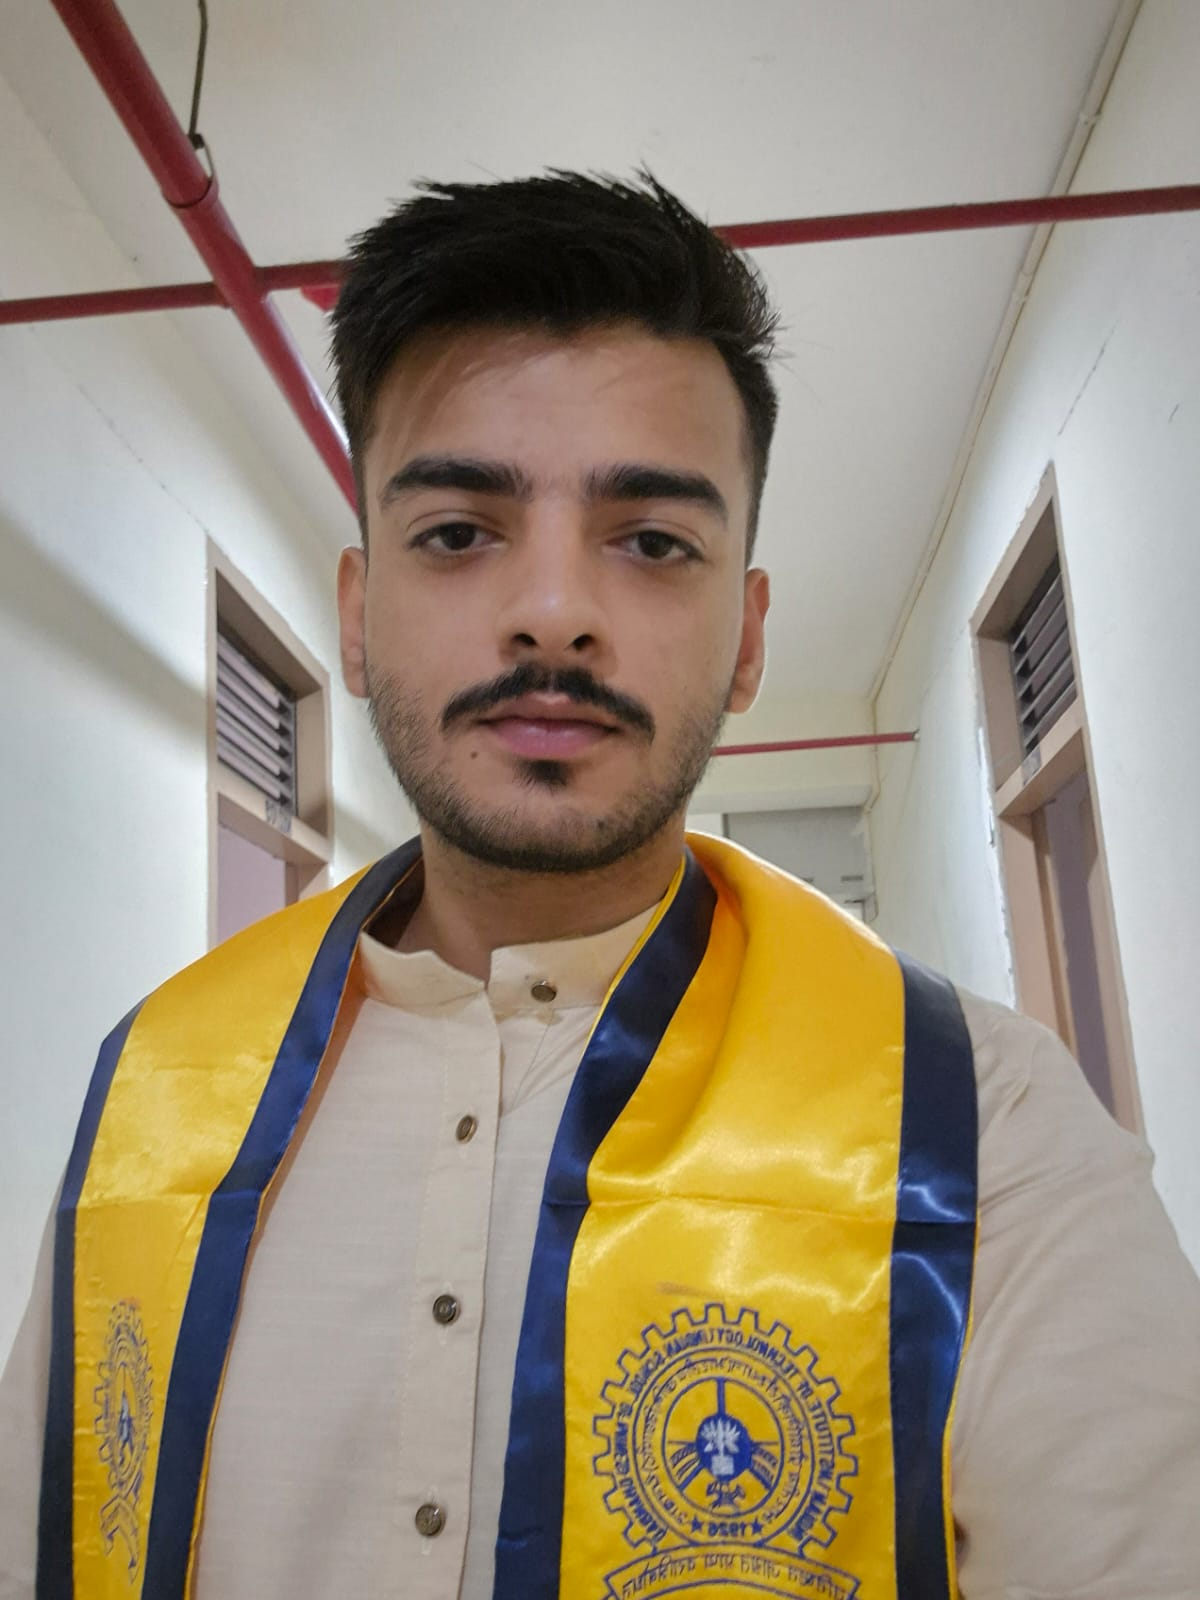
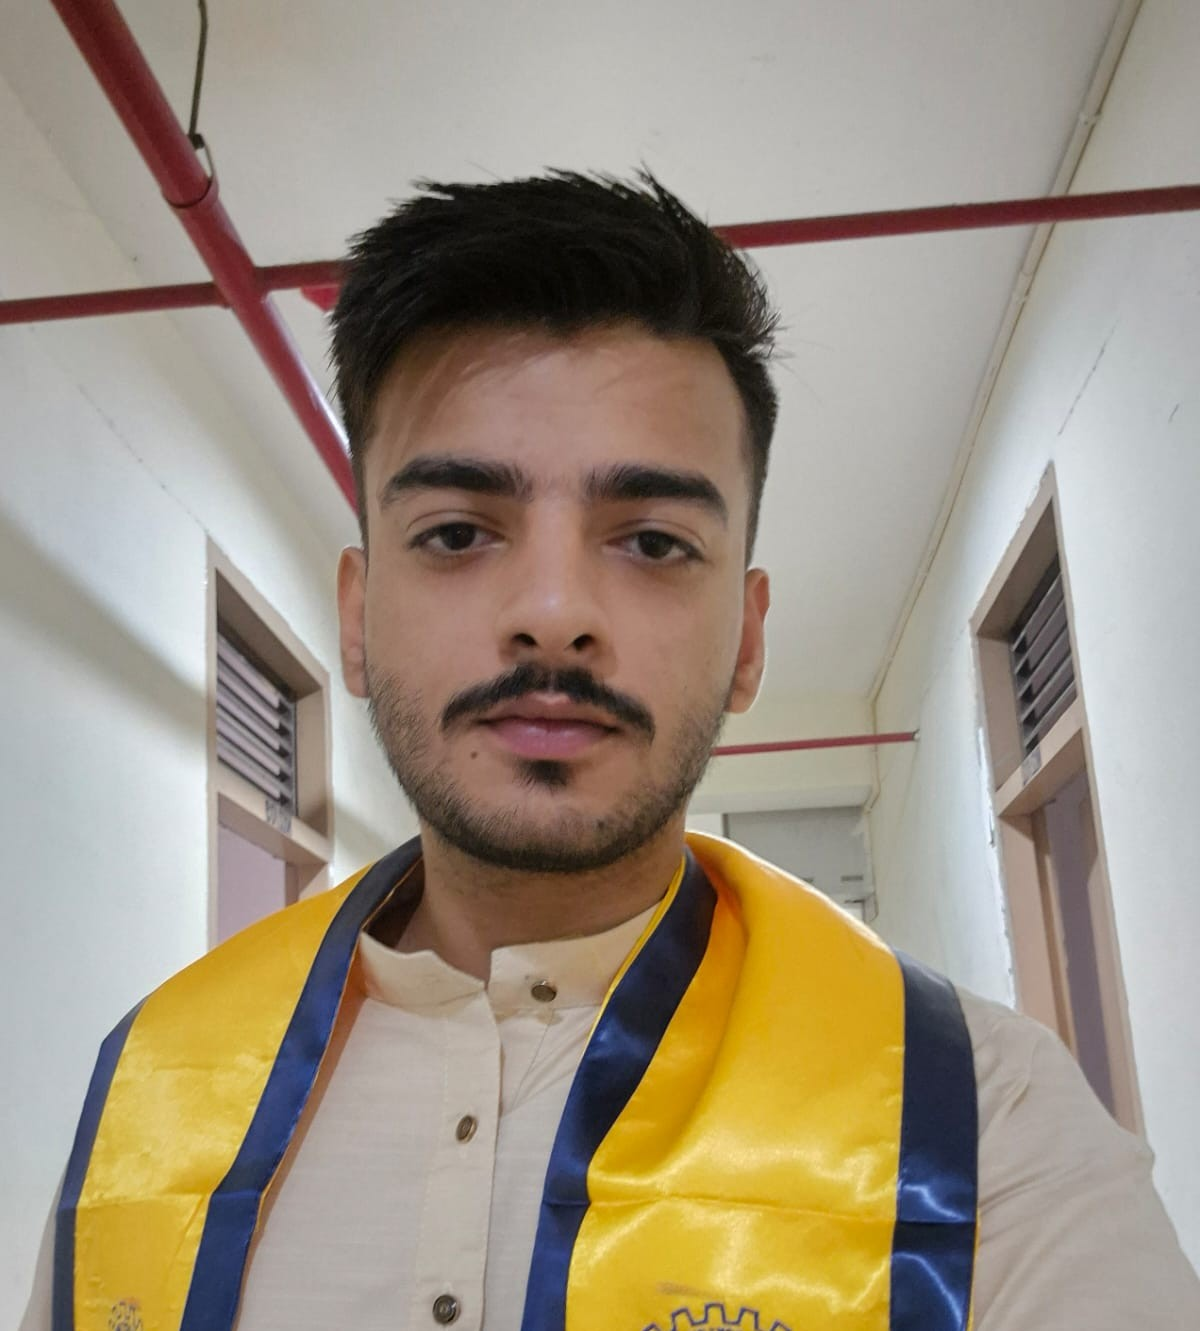
feat: Update team member descriptions and Suryadeep's image
- Update Bhupendra's description with detailed IIT background and AI expertise
- Enhance Suryadeep's description with full-stack AI engineering details
- Update Suryadeep's profile image with cropped version

diff --git a/src/components/Team.js b/src/components/Team.js
@@ -62,7 +62,7 @@ export default function Team() {
             id="bhupendra"
             name="Bhupendra"
             designation="Founder & CEO"
-            bio="Leading the vision and strategy for Buildify, ensuring innovative solutions and client satisfaction."
+            bio="IIT (ISM) Dhanbad Silver Medalist engineering end-to-end AI platforms — from custom reinforcement learning environments and RLHF pipelines to production-grade RAG systems that scale seamlessly from research to deployment."
             image="/images/bhupendra.png"
             imageAlt="Bhupendra - Founder & CEO"
             accent="primary"
@@ -75,7 +75,7 @@ export default function Team() {
             id="suryadeep"
             name="Suryadeep Singh"
             designation="Fullstack AI Engineer"
-            bio="Developing intelligent full-stack solutions with advanced machine learning integration for scalable enterprise applications."
+            bio="Building end-to-end AI-powered applications with expertise in full-stack development, machine learning integration, and scalable system architecture — transforming complex requirements into elegant, production-ready solutions."
             image="/images/suryadeep.jpeg"
             imageAlt="Suryadeep Singh - Fullstack AI Engineer"
             accent="secondary"